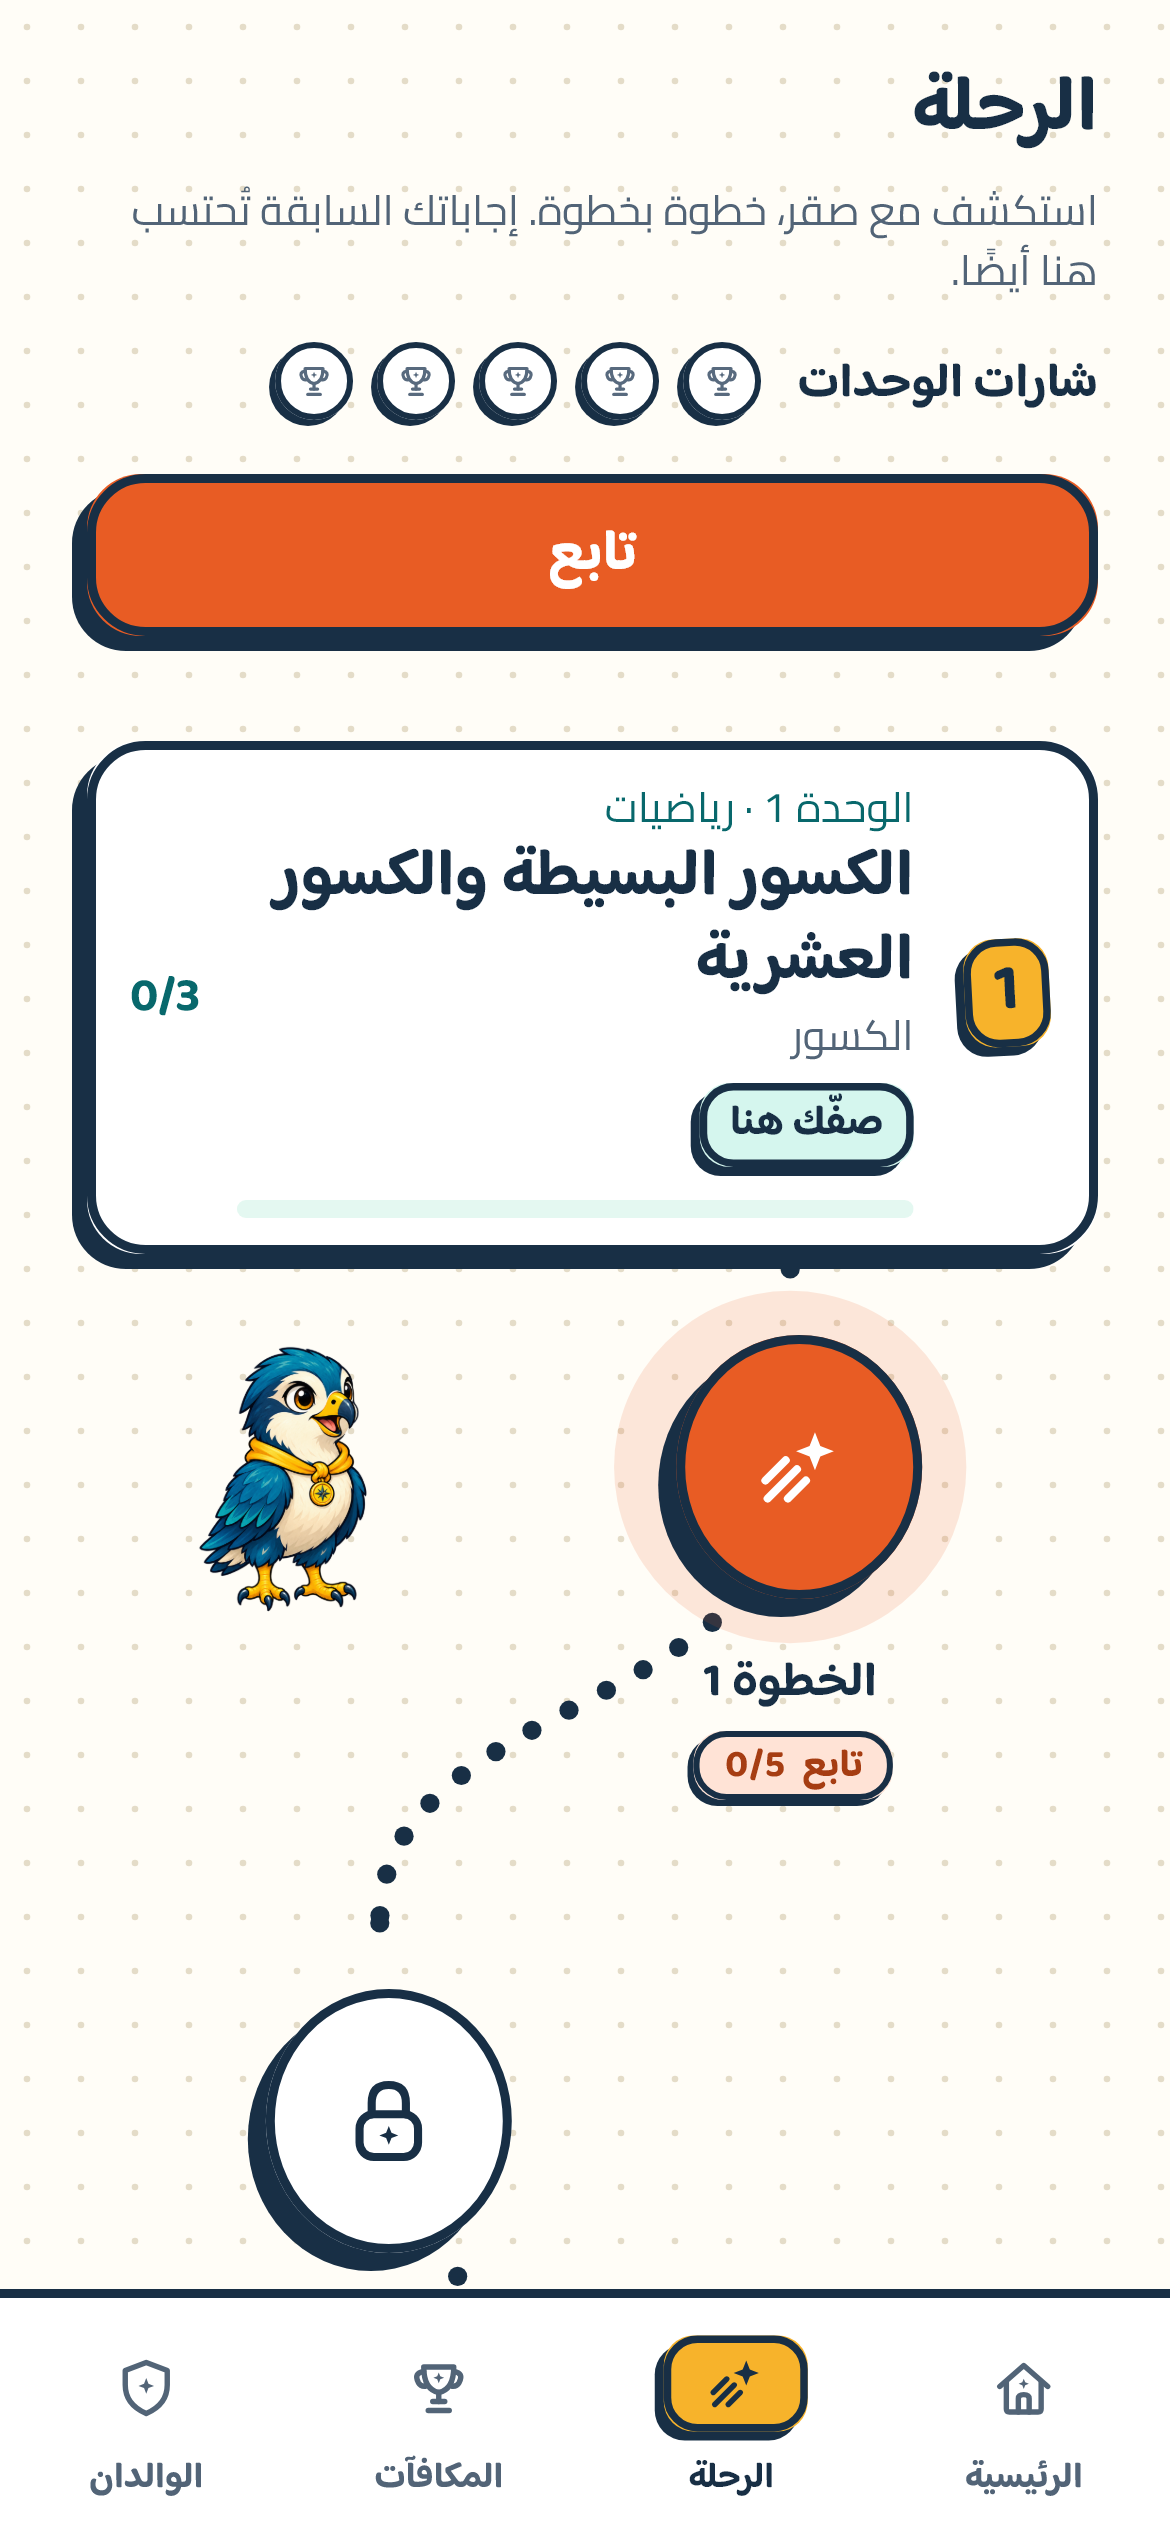
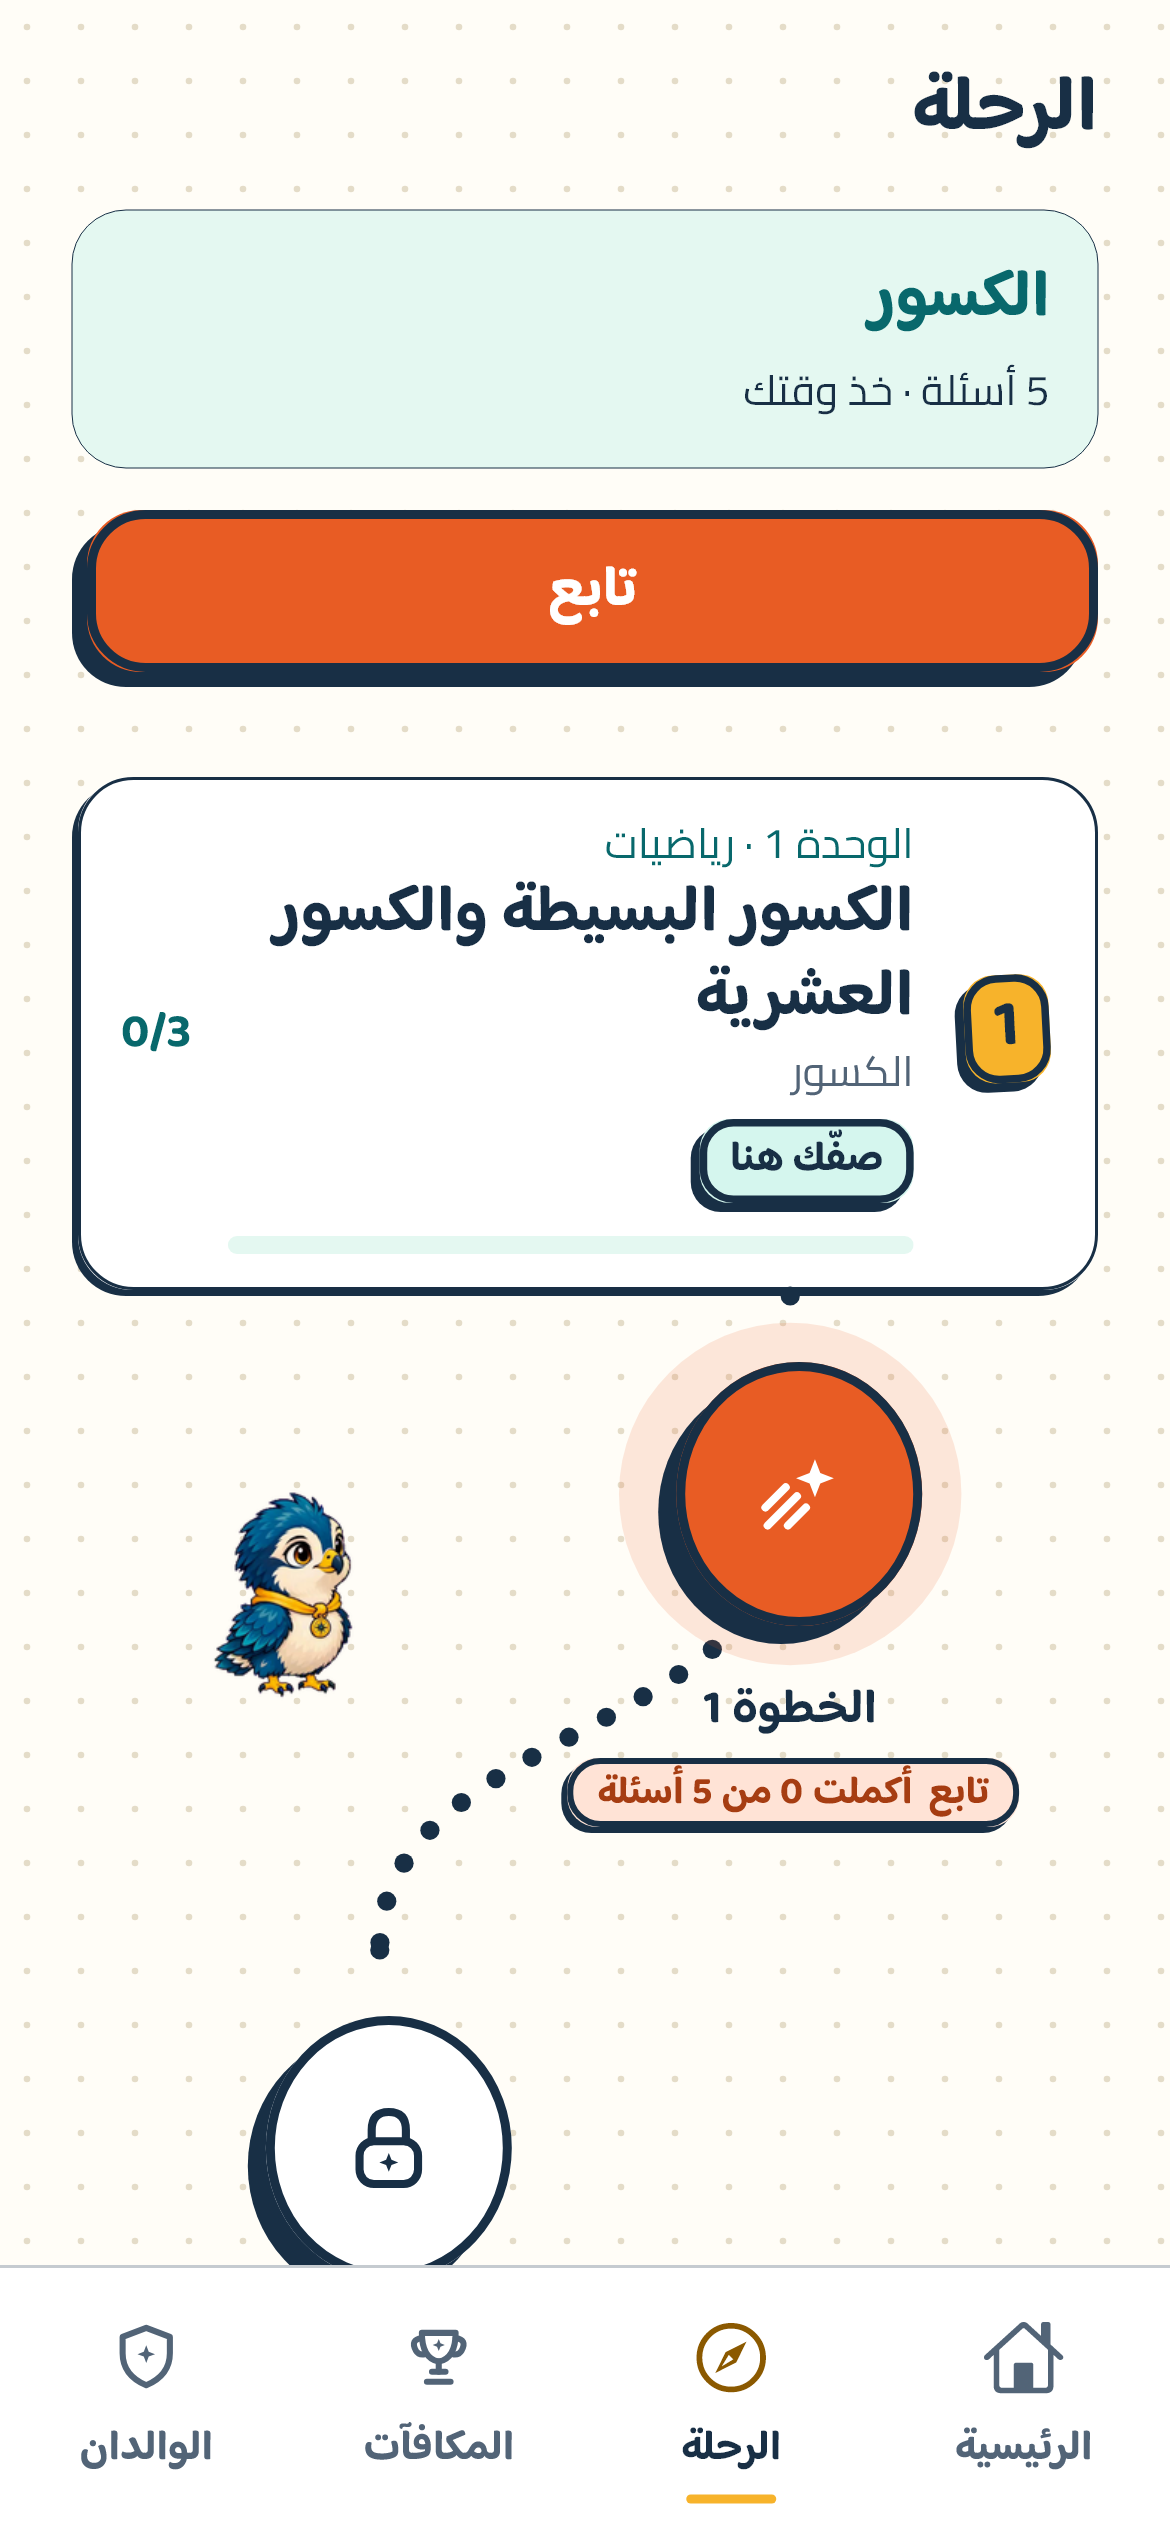
Refresh Saqroon landing and app media across portfolio locales

diff --git a/src/content/portfolio.ts b/src/content/portfolio.ts
@@ -774,21 +774,21 @@ export const focusQuest = {
   websiteLabel: tx("Explore Saqroon", "اكتشف صقرون", "גלו את סקרון"),
   media: [
     {
-      src: "/labs/saqroon/saqroon-landing-desktop.jpg", width: 1430, height: 755,
+      src: "/labs/saqroon/saqroon-landing-desktop-20261020.jpg", width: 1430, height: 755,
       alt: tx("Saqroon’s Arabic landing page featuring Saqr the falcon and its invitation for families", "صفحة صقرون بالعربية، مع صقر ودعوة العائلات إلى التجربة", "דף הנחיתה של סקרון בערבית, עם הבז סקר והזמנה למשפחות"),
       caption: tx("Arabic landing page", "صفحة التعريف بالعربية", "דף נחיתה בערבית"),
       fit: "contain",
     },
     {
-      src: "/labs/saqroon/saqroon-journey-ar.png", width: 1170, height: 2532,
+      src: "/labs/saqroon/saqroon-journey-ar-20261020.png", width: 1170, height: 2532,
       alt: tx("Saqroon’s Arabic learning journey with a maths unit, progress path and Saqr", "رحلة التعلّم في صقرون بالعربية، مع وحدة رياضيات ومسار التقدّم وصقر", "מסע הלמידה של סקרון בערבית, עם יחידת מתמטיקה, מסלול התקדמות וסקר"),
-      caption: tx("Learning journey, Android", "رحلة التعلّم على أندرويد", "מסע למידה באנדרואיד"),
+      caption: tx("Learning journey · development preview", "رحلة التعلّم · معاينة تطوير", "מסע למידה · תצוגת פיתוח"),
       fit: "contain",
     },
     {
-      src: "/labs/saqroon/saqroon-quest-ar.png", width: 1170, height: 2532,
+      src: "/labs/saqroon/saqroon-quest-ar-20261020.png", width: 1170, height: 2532,
       alt: tx("An Arabic maths quest in Saqroon with a fraction diagram and four answer choices", "مهمة رياضيات بالعربية في صقرون، مع رسم يوضّح الكسور وأربعة خيارات للإجابة", "משימת מתמטיקה בערבית בסקרון, עם תרשים שברים וארבע תשובות לבחירה"),
-      caption: tx("A visual maths quest", "مهمة رياضيات مصوّرة", "משימת מתמטיקה חזותית"),
+      caption: tx("Visual maths · development preview", "رياضيات مصوّرة · معاينة تطوير", "מתמטיקה חזותית · תצוגת פיתוח"),
       fit: "contain",
     },
   ] satisfies ProjectMedia[],
@@ -798,9 +798,9 @@ export const focusQuest = {
     "מוצר למידה בפיתוח",
   ),
   summary: tx(
-    "An Arabic-first Flutter app for children aged 5–12: short learning quests with Saqr the falcon, screen-time pauses that ask one question before more video or games, and controls that stay with the parents. Android beta for families in and around Nazareth.",
-    "تطبيق Flutter بالعربية أولًا للأطفال من 5 إلى 12 عامًا: مهمات تعلّم قصيرة مع صقر، ووقفات أثناء وقت الشاشة تطرح سؤالًا واحدًا قبل متابعة الفيديو أو الألعاب، وقرار يبقى بيد الأهل. نسخة أندرويد تجريبية لعائلات الناصرة والبلدات القريبة.",
-    "אפליקציית Flutter בערבית קודם כול לילדים בגילאי 5–12: משימות למידה קצרות עם הבז סקר, עצירות בזמן מסך ששואלות שאלה אחת לפני עוד וידאו או משחקים, ושליטה שנשארת בידי ההורים. גרסת בטא לאנדרואיד למשפחות בנצרת והסביבה.",
+    "An Arabic-first Flutter app for children aged 5–12: short learning quests with Saqr the falcon, learning checkpoints during screen time, and controls that stay with the parents. An Android family pilot in development, starting in Nazareth and nearby towns.",
+    "تطبيق Flutter بالعربية أولًا للأطفال من 5 إلى 12 عامًا: مهمات تعلّم قصيرة مع صقر، ووقفات تعلّم أثناء وقت الشاشة، وقرار يبقى بيد الأهل. تجربة عائلية على أندرويد قيد التطوير، تبدأ من الناصرة والبلدات القريبة.",
+    "אפליקציית Flutter בערבית קודם כול לילדים בגילאי 5–12: משימות למידה קצרות עם הבז סקר, נקודות למידה בזמן השימוש במסך, ושליטה שנשארת בידי ההורים. פיילוט משפחתי לאנדרואיד בפיתוח, שמתחיל בנצרת והסביבה.",
   ),
   status: "in-development" as ProjectStatus,
   stack: ["Flutter", "Firebase", "Android", "RevenueCat", "Accessibility"],
@@ -816,9 +816,9 @@ export const focusQuest = {
     },
   ],
   downloadNote: tx(
-    "Direct install build — Android will ask you to allow installs from your browser.",
-    "نسخة تثبيت مباشر — سيطلب أندرويد السماح بالتثبيت من المتصفح.",
-    "גרסת התקנה ישירה — אנדרואיד יבקש לאשר התקנה מהדפדפן.",
+    "Android pilot APK. Images show current development previews. Android will ask you to allow installs from your browser.",
+    "نسخة أندرويد للتجربة. الصور من معاينات التطوير الحالية. سيطلب أندرويد السماح بالتثبيت من المتصفح.",
+    "APK לפיילוט באנדרואיד. התמונות מציגות תצוגות פיתוח עדכניות. אנדרואיד יבקש לאשר התקנה מהדפדפן.",
   ),
 };
 

diff --git a/src/content/project-showcase.ts b/src/content/project-showcase.ts
@@ -62,7 +62,7 @@ export const projectShowcases: Record<string, ProjectShowcase> = {
     desktopRatio: "1430 / 755", mobileIndex: 1, mobileRatio: "1170 / 2532",
     details: [
       {
-        mediaIndex: 1, sourceSize: [1170, 2532], crop: [73, 740, 1025, 525],
+        mediaIndex: 1, sourceSize: [1170, 2532], crop: [73, 1300, 1025, 525],
         title: tx("A path to follow", "مسار للتعلّم", "מסלול ללמידה"),
         description: tx("Maths units and visible progress give each short quest a place in the journey.", "وحدات رياضيات وتقدّم واضح يمنحان كل مهمة قصيرة مكانًا في الرحلة.", "יחידות מתמטיקה והתקדמות גלויה נותנות לכל משימה קצרה מקום במסע."),
       },

diff --git a/src/components/portal-scene.tsx b/src/components/portal-scene.tsx
@@ -44,7 +44,7 @@ export function PortalScene() {
       <div className="scene-device scene-phone scene-phone-a" data-portal-depth="1.7">
         <div className="scene-screen">
           <Image
-            src="/labs/saqroon/saqroon-journey-ar.png"
+            src="/labs/saqroon/saqroon-journey-ar-20261020.png"
             alt="Saqroon's learning journey on a phone"
             width={1170}
             height={2532}
